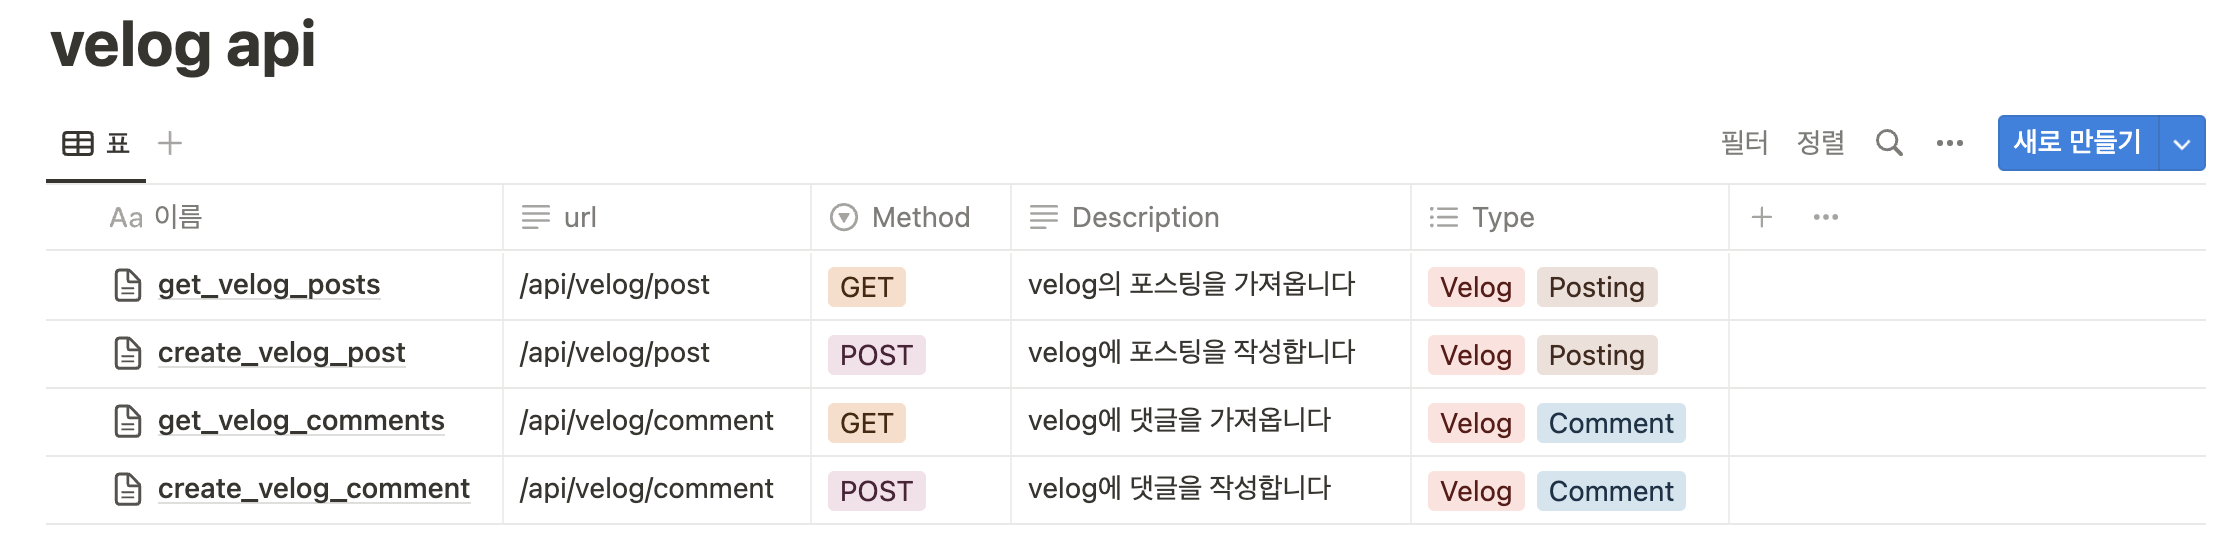
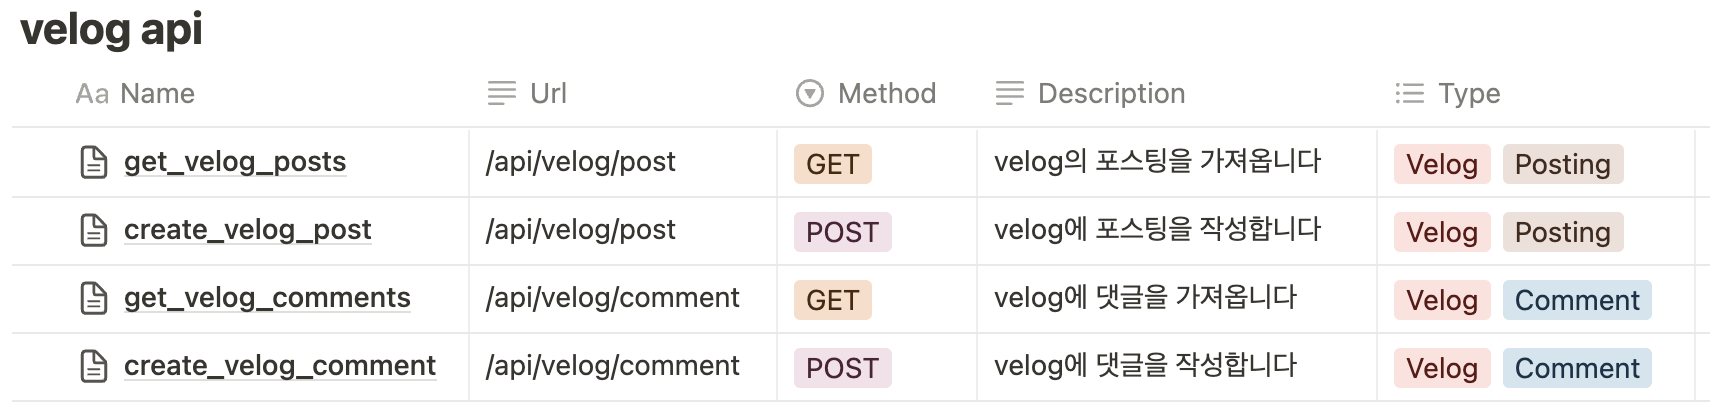
backend convention 3

diff --git a/백엔드_개발_컨벤션/README.md b/백엔드_개발_컨벤션/README.md
@@ -39,10 +39,26 @@ swagger 등의 문서화 도구를 사용하는 것도 좋은 선택이었겠지
 먼저 노션의 데이터베이스 기능을 이용해서 한 눈에 API 문서들을 볼 수 있게 테이블을 만들었다.
 <img src="./images/2.png" />
 url, http method, 간단한 설명, 타입(태그)를 간단하게 확인할 수 있게 구성했다.  
-'이름' 칼럼에 있는 각 페이지를 클릭하면 각 API의 문서를 확인할 수 있다.
+'Name' 칼럼에 있는 각 페이지를 클릭하면 각 API의 문서를 확인할 수 있다.
 
 <img src="./images/3.png" />
+
 API 문서의 상단에는 테이블에 입력한 값들이 기본적으로 확인된다.  
 내부 내용으로 해당 API의 상세 설명과 request body에 들어갈 값이 입력된다.  
 (GET 요청에서는 필요할 경우 query parameter가 함께 작성된다.)  
+이해가 쉽도록 예시 데이터를 넣어두는 형식으로 작성했다.
 
+<img src="./images/4.png" />
+
+그 밑에는 각 http 응답에 대한 response body의 형식을 작성해두었다.  
+정상 응답과 에러 응답의 예시를 넣어서 해당 API를 통해 받을 수 있는 응답이 모두 담겨있도록 했다.
+
+
+### 2.2. 에러 코드 정리 문서
+#### 웹 - 서버가 에러 메시지 없이 코드로만 에러 응답을 주고 받음  
+해당 프로젝트 구현에서 에러 메시지를 응답에 노출시키지 않아야 한다는 요구사항이 존재했다.  
+커스텀해서 정의한 에러 코드만으로 에러 종류를 식별하고, 이를 이용해서 웹에 메시지를 보여주어야 했다.  
+프론트엔드에서 에러 메시지를 식별하고 서버 단의 로깅 및 디버깅의 편의성을 위해서는, 각 에러 종류를 한 눈에 파악할 수 있는 문서가 필요했다.  
+
+해당 에러 문서도 마찬가지로 노션에 작성하기로 했다.  
+API 문서 작성과 마찬가지로 노션의 데이터베이스 기능을 이용해서 작성했다.
